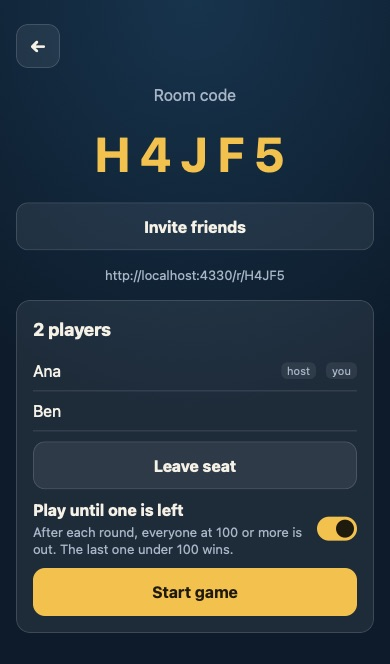
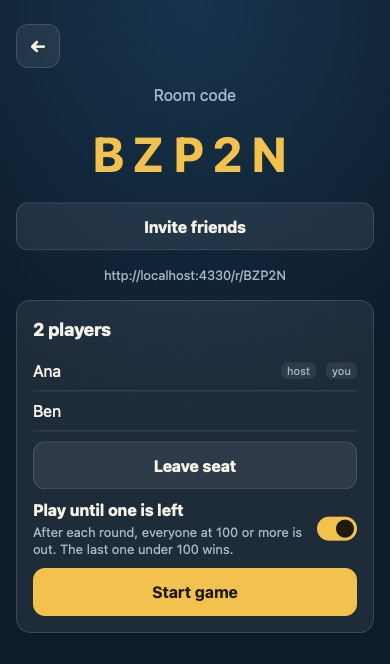
fix: a winner who reached 100 isn't tagged out; the lobby switch looks disabled to non-leaders
PO round 1 (PR #24): when everyone still in reaches 100 in the same round, the
winner went out too, and game over read "Cris wins!" beside "Out in round 2".
The out tag is now for non-winners only, pinned by a harness test on seed 2
(nobody left under 100) that failed before. A non-leader's switch is dimmed;
its label (9.2:1) and help (5.0:1) keep AA contrast.

Changed region(s): [[0.2154, 0.1807, 0.7385, 0.2711], [0.2462, 0.3916, 0.7385, 0.4217]]

diff --git a/e2e/table.spec.ts b/e2e/table.spec.ts
@@ -385,6 +385,21 @@ test("M17: a player who is out watches: 'Out · watching' on their seat, the spe
   await expectMobileFriendly(page);
 });
 
+test("M17: when everyone still in reaches 100 in the same round, the winner went out too but isn't tagged out", async ({
+  page,
+}) => {
+  // Seed 2: Dani goes out after round 1; Ana, Ben and Cris all reach 100 in round 2, and Cris,
+  // on the lowest total, wins.
+  const over = knockoutGame(["Ana", "Ben", "Cris", "Dani"], 2).at(-1);
+  if (!over) throw new Error("no game");
+  expect([over.players.map((p) => p.out), over.winners]).toEqual([[2, 2, 2, 1], [2]]);
+  await show(page, { view: toView(over), seat: 0 });
+  const rows = page.getByTestId("game-over").locator("tbody tr");
+  await expect(rows.first()).toHaveText(/^Cris/);
+  await expect(rows.first().getByTestId("out-tag")).toHaveCount(0);
+  await expect(page.getByTestId("game-over").getByTestId("out-tag")).toHaveCount(3);
+});
+
 test("M17: the final ranking: the winner first, then by the round they went out, then the lower total, in en, es and pt", async ({
   page,
 }) => {

diff --git a/src/client/Table.tsx b/src/client/Table.tsx
@@ -542,7 +542,8 @@ function Summary({ view, lead, auto, onPeek, onNext, onPlayAgain, onExit }: Summ
                     {auto?.[p.seat] && <Bot />}
                     {p.name}
                     {p.seat === view.ender && <span className="tag">{t("ended")}</span>}
-                    {p.out !== null && (
+                    {/* A winner may have reached 100 too, when nobody was left under it. */}
+                    {p.out !== null && !view.winners.includes(p.seat) && (
                       <span className="tag" data-testid="out-tag">
                         {t("outInRound", { n: p.out })}
                       </span>

diff --git a/src/client/styles.css b/src/client/styles.css
@@ -1003,6 +1003,11 @@ button.card:active {
   cursor: default;
 }
 
+/* Only a leader can flip it: everyone else sees its state, plainly not a control. */
+.option:has(input:disabled) .switch {
+  opacity: 0.5;
+}
+
 .option .switch input {
   top: -10px;
 }
